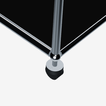
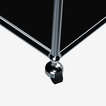
3d: rueda estilo USM Haller - capucha cromada sobre rueda negra
Domo cromado achatado + faldon que cubre la mitad superior de la rueda, eje
desplazado del vastago (trail de giro) y swivel orientado para que la cara
redonda de la rueda mire a la camara. Thumbnail del selector regenerado.

Changed region(s): [[0.0, 0.0, 1.0, 0.8208], [0.4811, 0.0566, 0.5094, 0.3396]]

diff --git a/components/3d/parts/Ball.tsx b/components/3d/parts/Ball.tsx
@@ -35,21 +35,34 @@ export const Ball = ({ position, hasFoot, useWheel }: { position: [number, numbe
             )}
             {hasFoot && useWheel && (
                 <group position={[0, -0.0125, 0]}>
-                    {/* Chrome stem from ball to caster housing */}
-                    <mesh position={[0, -0.008, 0]} castShadow receiveShadow>
-                        <cylinderGeometry args={[0.006, 0.006, 0.016, 16]} />
+                    {/* Chrome stem from ball to caster hood */}
+                    <mesh position={[0, -0.007, 0]} castShadow receiveShadow>
+                        <cylinderGeometry args={[0.006, 0.006, 0.014, 16]} />
                         <meshPhysicalMaterial color="#d9d9d9" metalness={1.0} roughness={0.18} clearcoat={0.3} />
                     </mesh>
-                    {/* Caster housing (black cylindrical body) */}
-                    <mesh position={[0, -0.022, 0]} castShadow receiveShadow>
-                        <cylinderGeometry args={[0.02, 0.02, 0.012, 32]} />
-                        <meshStandardMaterial color="#1a1a1a" roughness={0.5} metalness={0.2} />
-                    </mesh>
-                    {/* Wheel tread (thicker torus/cylinder lying on side at the bottom) */}
-                    <mesh position={[0, -0.034, 0]} rotation={[Math.PI / 2, 0, 0]} castShadow receiveShadow>
-                        <cylinderGeometry args={[0.018, 0.018, 0.022, 32]} />
-                        <meshStandardMaterial color="#0f0f0f" roughness={0.7} metalness={0.1} />
-                    </mesh>
+                    {/* USM caster: capucha cromada (domo + faldón) que cubre la mitad
+                        superior de la rueda; la rueda negra asoma por debajo.
+                        Leve offset horizontal para el look de rueda giratoria (trail). */}
+                    {/* Swivel del caster: giro que deja la cara redonda de la rueda
+                        mirando hacia la cámara (no el canto) */}
+                    <group rotation={[0, Math.PI * 0.38, 0]}>
+                        {/* Dome (flattened top hemisphere) */}
+                        <mesh position={[0, -0.022, 0]} scale={[1, 0.65, 1]} castShadow receiveShadow>
+                            <sphereGeometry args={[0.021, 32, 16, 0, Math.PI * 2, 0, Math.PI / 2]} />
+                            <meshPhysicalMaterial color="#d9d9d9" metalness={1.0} roughness={0.15} clearcoat={0.3} clearcoatRoughness={0.1} envMapIntensity={1.2} side={2} />
+                        </mesh>
+                        {/* Skirt (short cylindrical band under the dome) */}
+                        <mesh position={[0, -0.027, 0]} castShadow receiveShadow>
+                            <cylinderGeometry args={[0.021, 0.021, 0.010, 32, 1, true]} />
+                            <meshPhysicalMaterial color="#d9d9d9" metalness={1.0} roughness={0.15} clearcoat={0.3} clearcoatRoughness={0.1} envMapIntensity={1.2} side={2} />
+                        </mesh>
+                        {/* Black wheel: axle offset from the stem (swivel trail) so it peeks
+                            out from under the hood, lower half clearly visible */}
+                        <mesh position={[0, -0.034, 0.009]} rotation={[0, 0, Math.PI / 2]} castShadow receiveShadow>
+                            <cylinderGeometry args={[0.020, 0.020, 0.016, 32]} />
+                            <meshStandardMaterial color="#111111" roughness={0.6} metalness={0.1} />
+                        </mesh>
+                    </group>
                 </group>
             )}
         </group>
